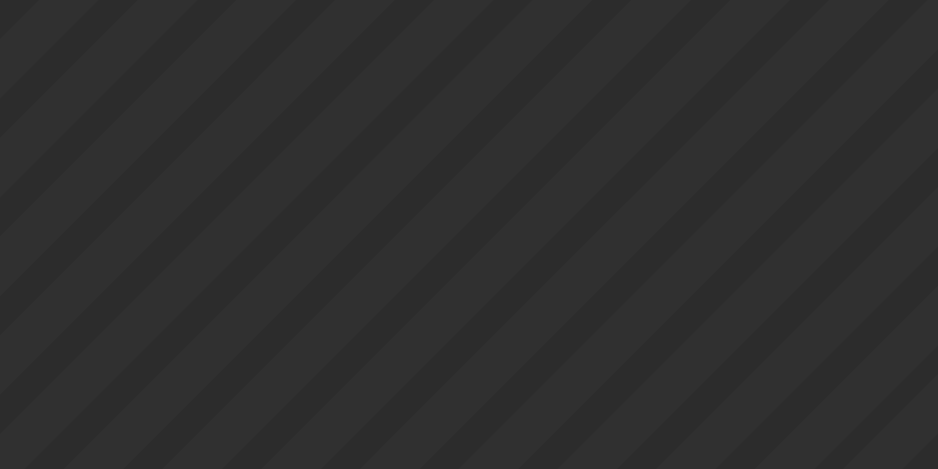
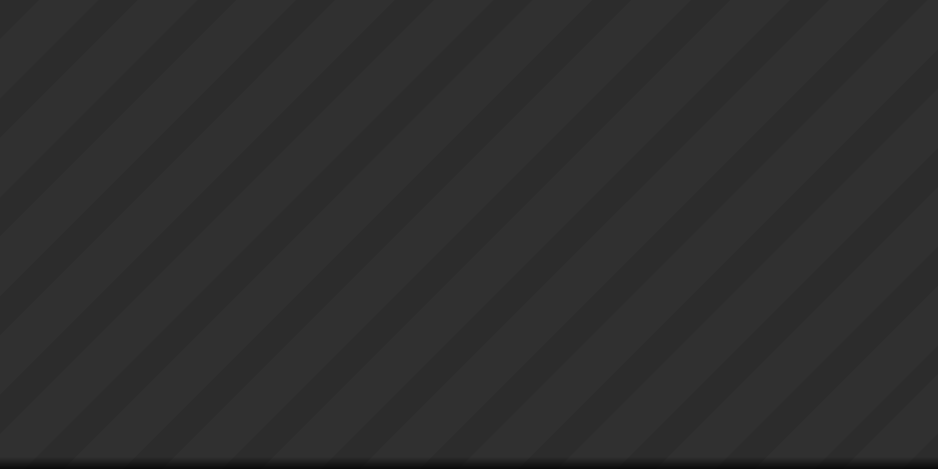
Style updates

Changed region(s): [[0.0, 0.9851, 1.0, 1.0]]

diff --git a/techblog/templates/blog_base.html b/techblog/templates/blog_base.html
@@ -25,12 +25,10 @@
                 <div class="title-area">
 
                 <h1>{{ page_title }}</h1>
-                <div class="tagline">{% block tagline %}{{ tagline }}{% endblock %}</div>
 
                 {% block summary_area %} {% endblock %}
                 </div>
 
-                <div class="bottom-shadow"> </div>
 
 
                 {# <div class="top-border"> </div> #}
@@ -55,57 +53,62 @@
             </div>
         </div>
 
+        <div id="main">
+
+            <div class="bottom-shadow"> </div>
 
 
-        <div id="column1">
+            <div id="column1">
 
-            <div class="inner">
+                <div class="inner">
 
-                <div class="column1-content">
-                    {% block column1 %}
-                    <h2><a href="#">Blog Post Title</a></h2>
-                    <div class="post-subtitle">Posted 2 days ago, by Will</div>
+                    <div class="column1-content">
+                        {% block column1 %}
+                        <h2><a href="#">Blog Post Title</a></h2>
+                        <div class="post-subtitle">Posted 2 days ago, by Will</div>
 
-                    <p>
-            While Reset CSS removes and <a href="kjhkjh">neutralizes</a> the inconsistent default styling of HTML elements, Base CSS applies a consistent style foundation for common HTML elements across A-grade browsers.
+                        <p>
+                While Reset CSS removes and <a href="kjhkjh">neutralizes</a> the inconsistent default styling of HTML elements, Base CSS applies a consistent style foundation for common HTML elements across A-grade browsers.
 
-Fonts CSS offers cross-browser typographical normalization and control; the framework provides consistent font sizing and line-height, supports user-driven font-size adjustment in the browser, including cross-browser consistency for adjusted sizes and works in both Quirks Mode and Standards Mode.
+    Fonts CSS offers cross-browser typographical normalization and control; the framework provides consistent font sizing and line-height, supports user-driven font-size adjustment in the browser, including cross-browser consistency for adjusted sizes and works in both Quirks Mode and Standards Mode.
 
-Grids CSS delivers four preset page widths, six preset templates, and the ability to stack and nest subdivided regions of two, three, or four columns. The 4kb file provides over 1000 page layout combinations. The framework supports easy customization of the width for fixed-width layouts; it also supports fluid-width (100%) layouts as well as preset fixed-width layouts at 750px, 950px, and 974px, and the ability to easily customize to any number. YUI also offers The YUI Grids Builder — a simple interface for Grids customization.
+    Grids CSS delivers four preset page widths, six preset templates, and the ability to stack and nest subdivided regions of two, three, or four columns. The 4kb file provides over 1000 page layout combinations. The framework supports easy customization of the width for fixed-width layouts; it also supports fluid-width (100%) layouts as well as preset fixed-width layouts at 750px, 950px, and 974px, and the ability to easily customize to any number. YUI also offers The YUI Grids Builder — a simple interface for Grids customization.
 
-You should be aware that these frameworks are often criticized for bloating the code with non-semantic markup and generating too many unnecessary classes, IDs and div-containers in CSS. Yahoo! UI Library also provides a detailed documentation with numerous examples, tutorials, cheat sheets, templates and tools.
-                    </p>
-                    {% endblock %}
+    You should be aware that these frameworks are often criticized for bloating the code with non-semantic markup and generating too many unnecessary classes, IDs and div-containers in CSS. Yahoo! UI Library also provides a detailed documentation with numerous examples, tutorials, cheat sheets, templates and tools.
+                        </p>
+                        {% endblock %}
+                    </div>
+
                 </div>
 
             </div>
 
-        </div>
+            <div id="column2">
+                <div class="inner">
+                    <div class="column2-content">
+                        {% block column2 %}
+                        <h1>About Me</h1>
+                        <p>
+                            <img class="mug-shot" src="/media/images/mugshot.jpg"/>
+                            I'm a software developer and author, living in London.
+                            I develop websites in Python and Django for a living.
+                        </p>
+                        <div class="clear"> </div>
+                        {% endblock %}
+                    </div>
 
-        <div id="column2">
-            <div class="inner">
-                <div class="column2-content">
-                    {% block column2 %}
-                    <h1>About Me</h1>
-                    <p>
-                        <img class="mug-shot" src="/media/images/mugshot.jpg"/>
-                        I'm a software developer and author, living in London.
-                        I develop websites in Python and Django for a living.
-                    </p>
-                    <div class="clear"> </div>
-                    {% endblock %}
                 </div>
 
             </div>
+            <div class="clear"> </div>
 
-        </div>
-        <div class="clear"> </div>
-
-        <div id="footer">
-            <div class="inner">
-                <div class="footer-content">
-                    This is the footer
+            <div id="footer">
+                <div class="inner">
+                    <div class="footer-content">
+                        This is the footer
+                    </div>
                 </div>
+
             </div>
 
         </div>

diff --git a/techblog/media/css/blog_base.css b/techblog/media/css/blog_base.css
@@ -24,15 +24,31 @@ body
 }
 
 
+#main
+{
+    /*
+    border-left:2px solid #666;
+    border-right:2px solid #666;
+    border-bottom:2px solid #666;
+    */
+}
+
 .title-area
 {
     margin:0 auto;
-    min-height:150px;
+    /*min-height:150px;*/
     background-color:#ddd;
     background-color:#333;
     color:white;
     background-image:url(/media/images/titleshade.png);
+    background-position:0 bottom;
 
+    padding:20px;
+    padding-bottom:30px;
+
+    border-top:2px solid #333;;
+    border-left:2px solid #333;
+    border-right:2px solid #333;
 
     /*background-color:#aeaeae;
     background-image:url("/media/images/swirly.jpg");
@@ -68,23 +84,24 @@ body
     color:white;
     text-align:center;
     clear:both;
-    padding-top:30px;
+    padding-top:6px;
     /*background-color:#575773;*/
 }
 
 .tagline
 {
-    font-size:100%;
-    font-weight:normal;
-    color:black;
+    font-size:90%;
+    font-weight:bold;
+    color:#ddd;
     text-align:center;
-    padding-top:10px;
+    padding:20px 0px;
 }
 
 .tagline a, .tagline a:visited
 {
-    font-weight:normal;
-    color:black;
+    font-weight:bold;
+    /*color:black;*/
+    color:white;
 }
 
 
@@ -140,7 +157,7 @@ body
     /*border:1px solid #444;*/
     /*border-top:4px solid #999;*/
     background-color:#fff;
-    border:2px solid #666;
+    /*border:2px solid #666;*/
 
 /*    background-image:url("/media/images/blogback.png");
     background-repeat:repeat-y;*/
@@ -150,7 +167,7 @@ body
 .bottom-shadow
 {
     background-image:url("/media/images/bottomshadow.png");
-    height:40px;
+    height:26px;
     clear:both;
 }
 
@@ -198,17 +215,17 @@ body
 #column1 .inner
 {
 
-    margin-left:24px;
-    margin-right:24px;
+    margin-left:44px;
+    margin-right:44px;
 
 }
 
 #column2
 {
-    width: 308px;
+    width: 306px;
     float:left;
     overflow:hidden;
-    border-left:1px solid #bbb;
+    /*border-left:1px solid #bbb;*/
     /*background-color:#eee;*/
 }
 
@@ -226,6 +243,7 @@ body
 .column2-content
 {
     padding:0px 20px;
+    background-color:#f9f9f9;
     /*padding:10px;*/
 }
 
@@ -393,12 +411,12 @@ strong {font-weight:bold;}
     width:600px;
     font-size:80%;
     margin:0 auto;
-    padding:20px;
+    padding:2px;
     color:#555;
     text-align:justify;
     font-weight:normal;
     padding-top:20px;
-    padding-bottom:20px;
+    padding-bottom:2px;
 }
 
 .summary-area p

diff --git a/techblog/media/css/code.css b/techblog/media/css/code.css
@@ -1,11 +1,11 @@
 pre
 {
-    background: #f0f0f0;
+    background: #f5f5f5;
     font-family:"Bitstream Vera Sans Mono","Courier new","Courier",monospace;
     font-size:75%;
     overflow-x:auto;
-    border:1px solid #ddd;
-    padding:3px;
+    border:1px dashed #777777;
+    padding:8px;
     margin-top:8px;
     margin-bottom:8px;
     line-height:120%;
